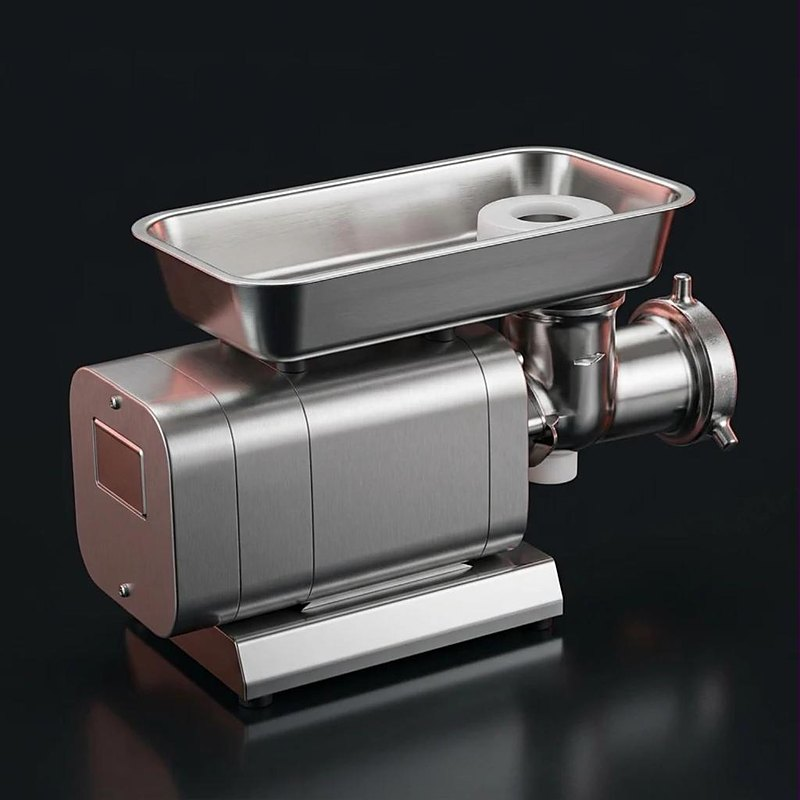
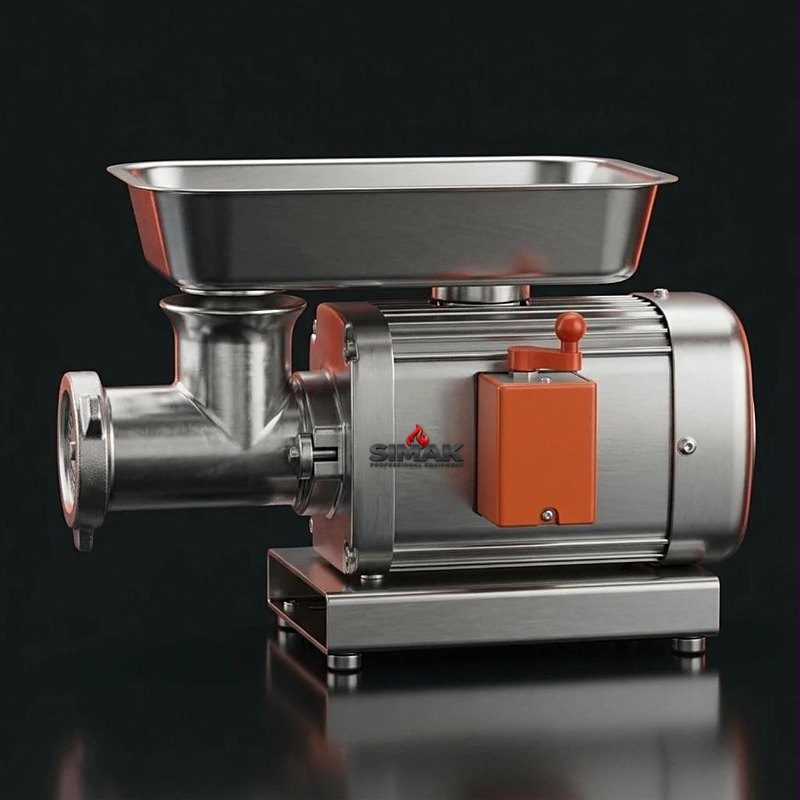
32 tishli: 360 daraja aylanish (6 kadr), surib aylantirish
Claude-Session: https://claude.ai/code/session_01NGRHGzpdA6YCnLpyjCoPGG

diff --git a/index.html b/index.html
@@ -503,7 +503,7 @@ document.querySelectorAll('.fc').forEach(function(c){
 })();
 </script>
 <div class="ms" id="ms" role="dialog" aria-modal="true" aria-labelledby="ms-t"><div class="ms-box"><div class="ms-h"><b id="ms-t"></b><span id="ms-c"></span><button class="ms-x" type="button" aria-label="Yopish">&times;</button></div><div class="ms-l" id="ms-l"></div></div></div>
-<script type="application/json" id="mdata">{"gosht-qiymalagichlar": {"t": "Go'sht qiymalagichlar", "m": [{"n": "12 tishli qiymalagich, abratkasiz", "s": ["220V", "1,1 kVt", "10-30 kg/soat"], "k": "", "d": "Ixcham va yengil. Oddiy 220V rozetkaga ulanadi, uyda yoki kichik qassobxonada kunlik qiymani bemalol tayyorlaydi.", "g": "Uy va kichik qassobxona", "i": "img/model/qiyma-1.jpg"}, {"n": "12 tishli qiymalagich, abratkali", "s": ["220V", "1,1 kVt", "10-30 kg/soat"], "k": "", "d": "Xuddi shu ixcham model, teskari aylantirish (abratka) bilan: pay yoki suyak tiqilib qolsa, bir bosishda bo'shatadi.", "g": "Uy va kichik qassobxona", "i": "img/model/qiyma-2.jpg"}, {"n": "12 tishli qiymalagich, kachokcha", "s": ["220V", "1,1 kVt", "30-50 kg/soat"], "k": "", "d": "Eng ko'p sotiladigan modellardan. Kichik va o'rtacha qassobxona, shashlikxona hamda oshxonalar uchun.", "g": "O'rtacha joylar uchun", "i": "img/model/qiyma-3.jpg"}, {"n": "22 tishli qiymalagich", "s": ["220V", "2 kVt", "50-70 kg/soat"], "k": "", "d": "O'rtacha qassobxona, shashlikxona va restoranlar uchun. Ko'p sotiladi, oddiy 220V tarmoqda ishlaydi.", "g": "O'rtacha joylar uchun", "i": "img/model/qiyma-4.jpg", "a": ["img/model/qiyma-4-r1.jpg"]}, {"n": "32 tishli qiymalagich, kachokcha", "s": ["220V yoki 380V", "2,2 kVt", "70-100 kg/soat"], "k": "", "d": "Kun bo'yi ishlaydigan qassobxona va shashlikxonalar uchun. Ikki varianti bor: 220V (oddiy tarmoq) va 380V (uch fazali).", "g": "O'rtacha va ko'p ishlaydigan joylar", "i": "img/model/qiyma-5.jpg", "a": ["img/model/qiyma-5-r1.jpg"]}, {"n": "Turkiya 32 tishli qiymalagich", "s": ["380V", "3 kVt"], "k": "", "d": "Turkiyada ishlab chiqarilgan. Katta sexlar, ishlab chiqarish va muzlagan go'shtni qiymalash uchun.", "g": "Katta ishlab chiqarish", "i": "img/model/qiyma-6.jpg", "v": [{"i": "img/model/qiyma-6b.jpg"}, {"i": "img/model/qiyma-6c.jpg"}, {"i": "img/model/qiyma-6d.jpg"}]}]}}</script>
+<script type="application/json" id="mdata">{"gosht-qiymalagichlar": {"t": "Go'sht qiymalagichlar", "m": [{"n": "12 tishli qiymalagich, abratkasiz", "s": ["220V", "1,1 kVt", "10-30 kg/soat"], "k": "", "d": "Ixcham va yengil. Oddiy 220V rozetkaga ulanadi, uyda yoki kichik qassobxonada kunlik qiymani bemalol tayyorlaydi.", "g": "Uy va kichik qassobxona", "i": "img/model/qiyma-1.jpg"}, {"n": "12 tishli qiymalagich, abratkali", "s": ["220V", "1,1 kVt", "10-30 kg/soat"], "k": "", "d": "Xuddi shu ixcham model, teskari aylantirish (abratka) bilan: pay yoki suyak tiqilib qolsa, bir bosishda bo'shatadi.", "g": "Uy va kichik qassobxona", "i": "img/model/qiyma-2.jpg"}, {"n": "12 tishli qiymalagich, kachokcha", "s": ["220V", "1,1 kVt", "30-50 kg/soat"], "k": "", "d": "Eng ko'p sotiladigan modellardan. Kichik va o'rtacha qassobxona, shashlikxona hamda oshxonalar uchun.", "g": "O'rtacha joylar uchun", "i": "img/model/qiyma-3.jpg"}, {"n": "22 tishli qiymalagich", "s": ["220V", "2 kVt", "50-70 kg/soat"], "k": "", "d": "O'rtacha qassobxona, shashlikxona va restoranlar uchun. Ko'p sotiladi, oddiy 220V tarmoqda ishlaydi.", "g": "O'rtacha joylar uchun", "i": "img/model/qiyma-4.jpg", "a": ["img/model/qiyma-4-r1.jpg"]}, {"n": "32 tishli qiymalagich, kachokcha", "s": ["220V yoki 380V", "2,2 kVt", "70-100 kg/soat"], "k": "", "d": "Kun bo'yi ishlaydigan qassobxona va shashlikxonalar uchun. Ikki varianti bor: 220V (oddiy tarmoq) va 380V (uch fazali).", "g": "O'rtacha va ko'p ishlaydigan joylar", "i": "img/model/qiyma-5.jpg", "a": ["img/model/qiyma-5-r1.jpg", "img/model/qiyma-5-r2.jpg", "img/model/qiyma-5-r3.jpg", "img/model/qiyma-5-r4.jpg", "img/model/qiyma-5-r5.jpg"]}, {"n": "Turkiya 32 tishli qiymalagich", "s": ["380V", "3 kVt"], "k": "", "d": "Turkiyada ishlab chiqarilgan. Katta sexlar, ishlab chiqarish va muzlagan go'shtni qiymalash uchun.", "g": "Katta ishlab chiqarish", "i": "img/model/qiyma-6.jpg", "v": [{"i": "img/model/qiyma-6b.jpg"}, {"i": "img/model/qiyma-6c.jpg"}, {"i": "img/model/qiyma-6d.jpg"}]}]}}</script>
 <script>
 (function(){
 var D={};try{D=JSON.parse(document.getElementById('mdata').textContent)}catch(e){}
@@ -513,14 +513,14 @@ function open(k,from){var d=D[k];if(!d)return;last=from||null;T.textContent=d.t;
  d.m.forEach(function(m,i){var r=el('article','mi'),w=el('div','mi-img'),stk=el('div','mi-stk');w.appendChild(stk);
   var sets=[[m.i].concat(m.a||[])];(m.v||[]).forEach(function(v){sets.push([v.i].concat(v.a||[]))});
   var fr=[],cur=0,timer=null,ims=[];
-  function load(k){fr=sets[k];stk.textContent='';ims=fr.map(function(u,j){var im=new Image();im.alt=m.n;im.width=800;im.height=800;if(j===0){im.src=u;im.loading=i>1?'lazy':'eager';im.className='on'}else{im.dataset.s=u}stk.appendChild(im);return im});cur=0;
+  function load(k){fr=sets[k];stk.textContent='';ims=fr.map(function(u,j){var im=new Image();im.alt=m.n;im.width=800;im.height=800;im.draggable=false;if(j===0){im.src=u;im.loading=i>1?'lazy':'eager';im.className='on'}else{im.dataset.s=u}stk.appendChild(im);return im});cur=0;
    w.classList.toggle('rot',fr.length>1);bd.style.display=fr.length>1?'':'none'}
   function warm(){ims.forEach(function(x){if(x.dataset.s){x.src=x.dataset.s;delete x.dataset.s}})}
   function show(j){j=(j%fr.length+fr.length)%fr.length;if(j===cur)return;ims[cur].className='';ims[j].className='on';cur=j}
   function play(){if(timer||fr.length<2)return;warm();var n=0,st=fr.length;w.classList.add('play');timer=setInterval(function(){n++;show(cur+1);if(n>=st){clearInterval(timer);timer=null;w.classList.remove('play')}},Math.max(160,2600/st))}
   var bd=el('span','mi-rot','360° aylantirish');w.appendChild(bd);
   w.setAttribute('role','button');w.tabIndex=0;w.setAttribute('aria-label',m.n+' - aylantirib ko\'rish');
-  var dx=null,moved=0;
+  var dx=null,moved=0;w.addEventListener('dragstart',function(ev){ev.preventDefault()});
   w.addEventListener('pointerdown',function(ev){if(fr.length<2)return;warm();dx=ev.clientX;moved=0});
   w.addEventListener('pointermove',function(ev){if(dx===null)return;var s=w.clientWidth/(fr.length*1.2),d=ev.clientX-dx;if(Math.abs(d)>=s){var k=Math.trunc(d/s);show(cur-k);dx+=k*s;moved=1}});
   window.addEventListener('pointerup',function(){dx=null});
